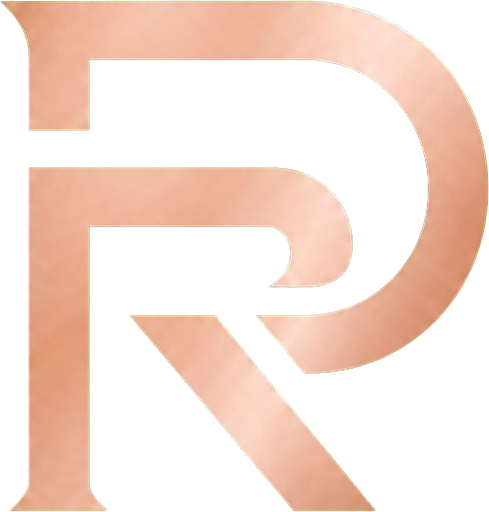
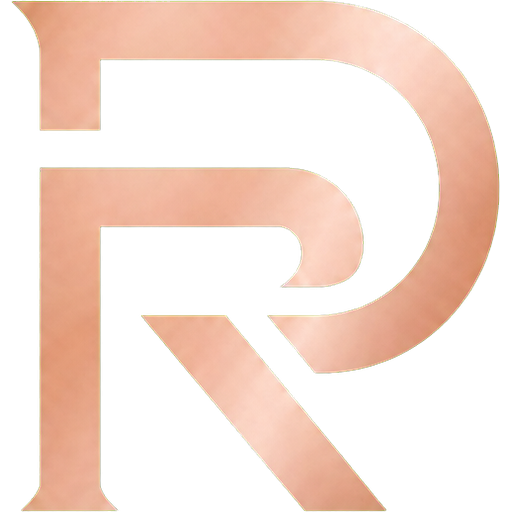
Fix customer Android release startup crash

diff --git a/apps/mobile-customer/app/(tabs)/_layout.tsx b/apps/mobile-customer/app/(tabs)/_layout.tsx
@@ -1,32 +1,11 @@
-import { Tabs } from 'expo-router';
+import { Stack } from 'expo-router';
 import React from 'react';
 
-import { HapticTab } from '@/components/haptic-tab';
-import { IconSymbol } from '@/components/ui/icon-symbol';
-import { Colors } from '@/constants/theme';
-import { useColorScheme } from '@/hooks/use-color-scheme';
-
 export default function TabLayout() {
-  const colorScheme = useColorScheme();
-
   return (
-    <Tabs
-      screenOptions={{
-        tabBarActiveTintColor: Colors[colorScheme ?? 'light'].tint,
-        headerShown: false,
-        tabBarButton: HapticTab,
-      }}>
-      <Tabs.Screen
-        name="index"
-        options={{
-          title: 'Home',
-          tabBarIcon: ({ color }) => <IconSymbol size={28} name="house.fill" color={color} />,
-        }}
-      />
-      <Tabs.Screen
-        name="explore"
-        options={{ href: null }}
-      />
-    </Tabs>
+    <Stack screenOptions={{ headerShown: false }}>
+      <Stack.Screen name="index" />
+      <Stack.Screen name="explore" />
+    </Stack>
   );
 }

diff --git a/apps/mobile-customer/components/ui/icon-symbol.tsx b/apps/mobile-customer/components/ui/icon-symbol.tsx
@@ -1,11 +1,12 @@
 // Fallback for using MaterialIcons on Android and web.
 
 import MaterialIcons from '@expo/vector-icons/MaterialIcons';
-import { SymbolWeight, SymbolViewProps } from 'expo-symbols';
 import { ComponentProps } from 'react';
 import { OpaqueColorValue, type StyleProp, type TextStyle } from 'react-native';
 
-type IconMapping = Record<SymbolViewProps['name'], ComponentProps<typeof MaterialIcons>['name']>;
+type SymbolName = 'house.fill' | 'paperplane.fill' | 'chevron.left.forwardslash.chevron.right' | 'chevron.right';
+type SymbolWeight = 'ultralight' | 'thin' | 'light' | 'regular' | 'medium' | 'semibold' | 'bold' | 'heavy' | 'black';
+type IconMapping = Record<SymbolName, ComponentProps<typeof MaterialIcons>['name']>;
 type IconSymbolName = keyof typeof MAPPING;
 
 /**

diff --git a/apps/mobile-customer/components/ride-map/RideMap.native.tsx b/apps/mobile-customer/components/ride-map/RideMap.native.tsx
@@ -1,6 +1,5 @@
 import { StyleSheet, Text, View } from "react-native";
 import Constants from "expo-constants";
-import MapView, { Marker, Polyline, PROVIDER_GOOGLE } from "react-native-maps";
 
 type LatLng = { latitude: number; longitude: number };
 
@@ -58,6 +57,7 @@ function RideMapFallback({ stops, showRoute }: RideMapProps) {
 }
 
 function RideMapLive({ stops, showRoute, driverCoordinate, pickupCoordinate, dropoffCoordinate }: RideMapProps) {
+  const { default: MapView, Marker, Polyline, PROVIDER_GOOGLE } = require("react-native-maps");
   const pickup  = pickupCoordinate  ?? defaultPickup;
   const dropoff = dropoffCoordinate ?? defaultDropoff;
   const driver  = driverCoordinate  ?? defaultDriver;